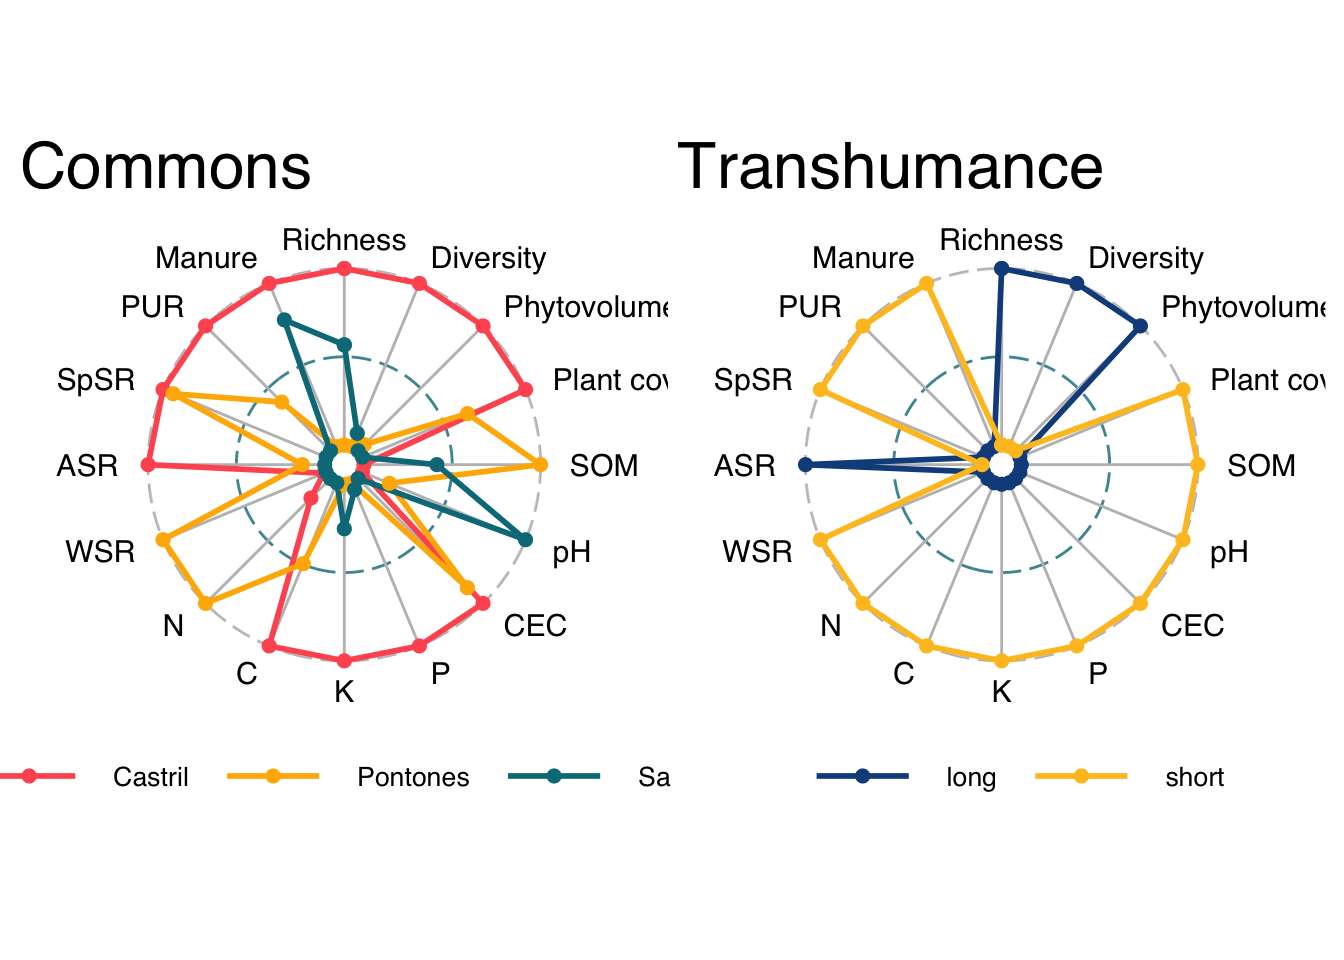
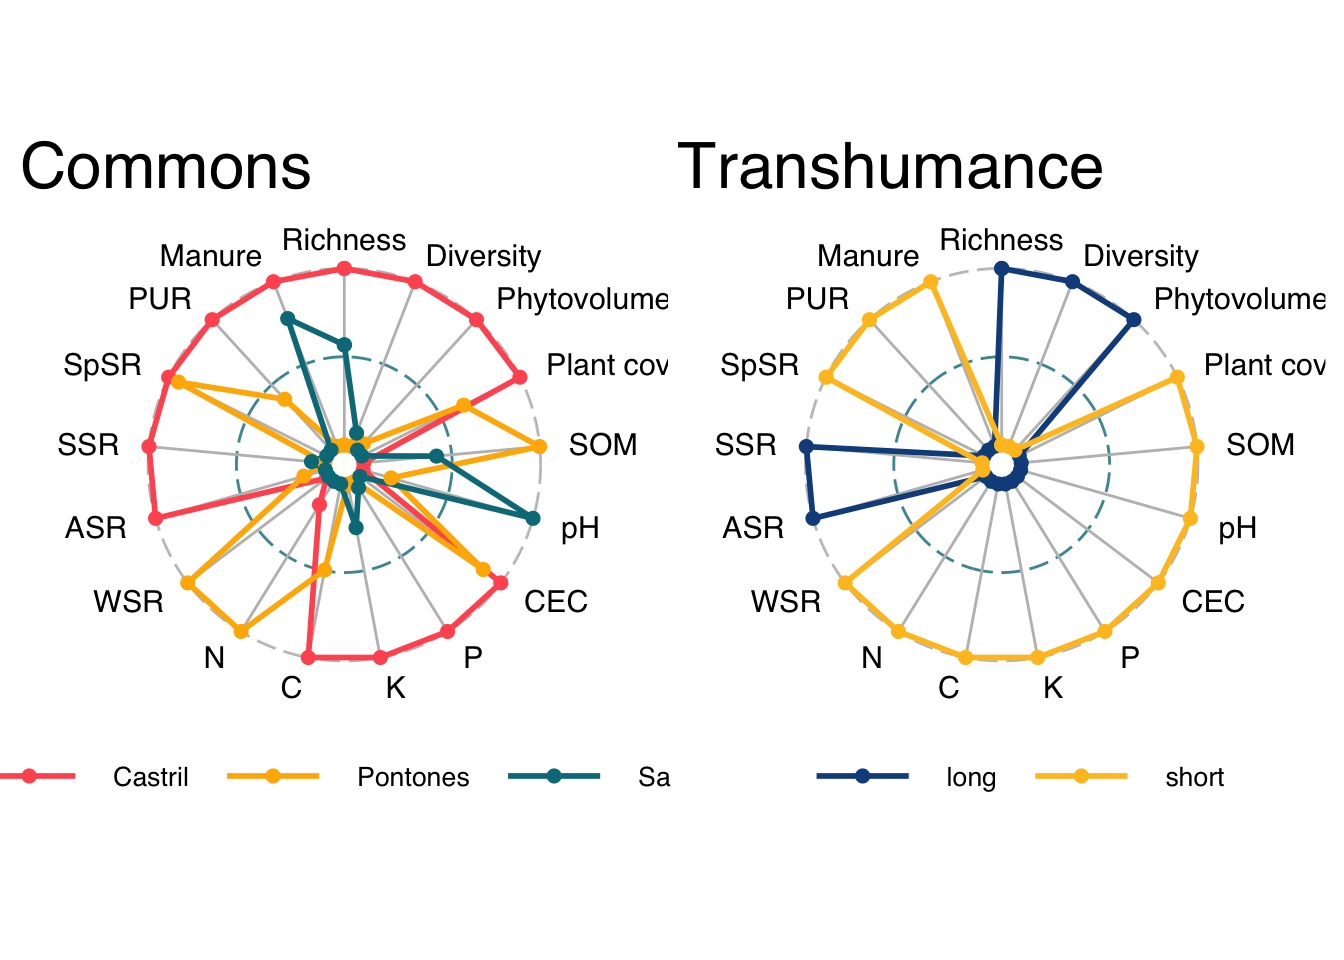
Build site.

Changed region(s): [[0.0312, 0.25, 0.5, 0.7188], [0.5312, 0.25, 1.0, 0.7188]]

diff --git a/docs/plots_commons_social.html b/docs/plots_commons_social.html
@@ -331,7 +331,7 @@ Checks <span class="glyphicon glyphicon-ok text-success" aria-hidden="true"></sp
 <div class="tab-content">
 <div id="summary" class="tab-pane fade in active">
 <p>
-<strong>Last updated:</strong> 2023-04-04
+<strong>Last updated:</strong> 2023-04-10
 </p>
 <p>
 <strong>Checks:</strong>
@@ -459,20 +459,20 @@ makes it easier to run your code on other machines.</p>
 <div class="panel panel-default">
 <div class="panel-heading">
 <p class="panel-title">
-<a data-toggle="collapse" data-parent="#workflowr-checks" href="#strongRepositoryversionstrongahrefhttpsgithubcomajpeluhumanecologytree24436310bbff6763eb1f9c738fd96c31eef33314targetblank2443631a">
+<a data-toggle="collapse" data-parent="#workflowr-checks" href="#strongRepositoryversionstrongahrefhttpsgithubcomajpeluhumanecologytreec859cd466f1bdd393df403fffaac247206c12df6targetblankc859cd4a">
 <span class="glyphicon glyphicon-ok text-success" aria-hidden="true"></span>
-<strong>Repository version:</strong> <a href="https://github.com/ajpelu/human_ecology/tree/24436310bbff6763eb1f9c738fd96c31eef33314" target="_blank">2443631</a>
+<strong>Repository version:</strong> <a href="https://github.com/ajpelu/human_ecology/tree/c859cd466f1bdd393df403fffaac247206c12df6" target="_blank">c859cd4</a>
 </a>
 </p>
 </div>
[2 lines of base64/hex data omitted]
 <div class="panel-body">
 <p>
 Great! You are using Git for version control. Tracking code development and
 connecting the code version to the results is critical for reproducibility.
 </p>
 <p>
-The results in this page were generated with repository version <a href="https://github.com/ajpelu/human_ecology/tree/24436310bbff6763eb1f9c738fd96c31eef33314" target="_blank">2443631</a>.
+The results in this page were generated with repository version <a href="https://github.com/ajpelu/human_ecology/tree/c859cd466f1bdd393df403fffaac247206c12df6" target="_blank">c859cd4</a>.
 See the <em>Past versions</em> tab to see a history of the changes made to the
 R Markdown and HTML files.
 </p>
@@ -489,19 +489,18 @@ Ignored files:
     Ignored:    .DS_Store
     Ignored:    .Rhistory
     Ignored:    .Rproj.user/
+    Ignored:    output/.DS_Store
 
 Untracked files:
-    Untracked:  output/combined_plot.svg
-    Untracked:  output/combined_plot_letters.jpg
-    Untracked:  output/combined_plot_letters.svg
-    Untracked:  output/spider_plot.svg
-    Untracked:  output/spider_plot.svg.2023_02_01_14_47_21.0.svg
-    Untracked:  output/spider_plot.svg.2023_02_07_16_19_28.0.svg
+    Untracked:  output/combined_plot_letters_v2.svg
+    Untracked:  output/spider_plot_modified/figura_5.png
+    Untracked:  output/spider_plot_modified/figura_5_v2.png
 
 Unstaged changes:
-    Modified:   code/load_pkgs.R
-    Modified:   output/combined_plot.jpg
     Modified:   output/spider_plot.jpg
+    Modified:   output/spider_plot.svg
+    Modified:   output/spider_plot_modified/arcos.svg
+    Deleted:    output/spider_plot_modified/g9275.png
 
 </code></pre>
 <p>
@@ -546,6 +545,40 @@ Message
 </tr>
 </thead>
 <tbody>
+<tr>
+<td>
+Rmd
+</td>
+<td>
+<a href="https://github.com/ajpelu/human_ecology/blob/c859cd466f1bdd393df403fffaac247206c12df6/analysis/plots_commons_social.Rmd" target="_blank">c859cd4</a>
+</td>
+<td>
+ajpelu
+</td>
+<td>
+2023-04-10
+</td>
+<td>
+wflow_publish("analysis/plots_commons_social.Rmd")
+</td>
+</tr>
+<tr>
+<td>
+html
+</td>
+<td>
+<a href="https://rawcdn.githack.com/ajpelu/human_ecology/640cbfe86897913a8b64ad4156b966fd62c34aee/docs/plots_commons_social.html" target="_blank">640cbfe</a>
+</td>
+<td>
+ajpelu
+</td>
+<td>
+2023-04-04
+</td>
+<td>
+Build site.
+</td>
+</tr>
 <tr>
 <td>
 Rmd
@@ -684,6 +717,17 @@ Date
 <tbody>
 <tr>
 <td>
+<a href="https://github.com/ajpelu/human_ecology/blob/640cbfe86897913a8b64ad4156b966fd62c34aee/docs/figure/plots_commons_social.Rmd/unnamed-chunk-2-1.png" target="_blank">640cbfe</a>
+</td>
+<td>
+ajpelu
+</td>
+<td>
+2023-04-04
+</td>
+</tr>
+<tr>
+<td>
 <a href="https://github.com/ajpelu/human_ecology/blob/bcd2feedbeb855f1d87a68821abdda504062604b/docs/figure/plots_commons_social.Rmd/unnamed-chunk-2-1.png" target="_blank">bcd2fee</a>
 </td>
 <td>
@@ -757,7 +801,7 @@ ggsave(plot = combined_plot,
   ungroup() |&gt; 
   mutate_at(vars(-transh), scales::rescale) |&gt; 
   dplyr::select(transh, Richness, Diversity, Phytovolume, `Plant cover`, SOM,
-                pH, CEC, P, K, C, N, WSR, ASR, SpSR, PUR, Manure) |&gt; 
+                pH, CEC, P, K, C, N, WSR, ASR, SSR, SpSR, PUR, Manure) |&gt; 
   ggradar(
     base.size = 3,
     group.line.width = 1, 
@@ -781,7 +825,7 @@ ggsave(plot = combined_plot,
   ungroup() |&gt; 
   mutate_at(vars(-commons), scales::rescale) |&gt; 
   dplyr::select(commons, Richness, Diversity, Phytovolume, `Plant cover`, SOM,
-                pH, CEC, P, K, C, N, WSR, ASR, SpSR, PUR, Manure) |&gt; 
+                pH, CEC, P, K, C, N, WSR, ASR, SSR, SpSR, PUR, Manure) |&gt; 
   ggradar(
     base.size = 3,
     group.line.width = 1, 
@@ -798,6 +842,43 @@ ggsave(plot = combined_plot,
 <pre class="r"><code>plot_spider &lt;- spider_commons + spider_transh
 plot_spider</code></pre>
 <p><img src="figure/plots_commons_social.Rmd/unnamed-chunk-9-1.png" width="672" style="display: block; margin: auto;" /></p>
+<p>
+<button type="button" class="btn btn-default btn-xs btn-workflowr btn-workflowr-fig" data-toggle="collapse" data-target="#fig-unnamed-chunk-9-1">
+Past versions of unnamed-chunk-9-1.png
+</button>
+</p>
+<div id="fig-unnamed-chunk-9-1" class="collapse">
+<div class="table-responsive">
+<table class="table table-condensed table-hover">
+<thead>
+<tr>
+<th>
+Version
+</th>
+<th>
+Author
+</th>
+<th>
+Date
+</th>
+</tr>
+</thead>
+<tbody>
+<tr>
+<td>
+<a href="https://github.com/ajpelu/human_ecology/blob/640cbfe86897913a8b64ad4156b966fd62c34aee/docs/figure/plots_commons_social.Rmd/unnamed-chunk-9-1.png" target="_blank">640cbfe</a>
+</td>
+<td>
+ajpelu
+</td>
+<td>
+2023-04-04
+</td>
+</tr>
+</tbody>
+</table>
+</div>
+</div>
 <pre class="r"><code>ggsave(plot = plot_spider, 
        filename = here::here(&quot;output/spider_plot.jpg&quot;), 
        height = 20, width = 27, units = &quot;cm&quot;,
@@ -848,33 +929,33 @@ other attached packages:
 [40] corrplot_0.92           correlation_0.8.2       patchwork_1.1.2        
 [43] vegan_2.6-4             lattice_0.20-45         permute_0.9-7          
 [46] fuzzySim_4.3            janitor_2.1.0           here_1.0.1             
-[49] forcats_0.5.2           stringr_1.4.1           dplyr_1.0.10           
+[49] forcats_0.5.2           stringr_1.4.1           dplyr_1.1.1            
 [52] purrr_0.3.5             readr_2.1.3             tidyr_1.2.1            
-[55] tibble_3.1.8            ggplot2_3.4.0           tidyverse_1.3.2        
+[55] tibble_3.2.1            ggplot2_3.4.0           tidyverse_1.3.2        
 [58] workflowr_1.7.0        
 
 loaded via a namespace (and not attached):
-  [1] utf8_1.2.2          tidyselect_1.2.0    htmlwidgets_1.5.4  
+  [1] utf8_1.2.2          tidyselect_1.2.0    htmlwidgets_1.6.2  
   [4] grid_4.2.1          munsell_0.5.0       ragg_1.2.3         
   [7] codetools_0.2-18    future_1.29.0       withr_2.5.0        
  [10] colorspace_2.0-3    highr_0.9           rstudioapi_0.14    
  [13] stats4_4.2.1        listenv_0.8.0       labeling_0.4.2     
  [16] git2r_0.30.1        farver_2.1.1        bit64_4.0.5        
  [19] DiceDesign_1.9      datawizard_0.6.2    rprojroot_2.0.3    
- [22] coda_0.19-4         parallelly_1.32.1   vctrs_0.5.1        
+ [22] coda_0.19-4         parallelly_1.32.1   vctrs_0.6.1        
  [25] generics_0.1.3      ipred_0.9-13        xfun_0.35          
  [28] R6_2.5.1            lhs_1.1.5           cachem_1.0.6       
  [31] assertthat_0.2.1    vroom_1.6.0         promises_1.2.0.1   
  [34] nnet_7.3-17         googlesheets4_1.0.1 gtable_0.3.1       
  [37] globals_0.16.2      processx_3.7.0      timeDate_4021.106  
- [40] rlang_1.0.6         systemfonts_1.0.4   splines_4.2.1      
+ [40] rlang_1.1.0         systemfonts_1.0.4   splines_4.2.1      
  [43] gargle_1.2.1        yaml_2.3.7          abind_1.4-5        
  [46] modelr_0.1.9        backports_1.4.1     httpuv_1.6.8       
  [49] tools_4.2.1         lava_1.6.10         bookdown_0.30      
  [52] ellipsis_0.3.2      jquerylib_0.1.4     plyr_1.8.7         
  [55] Rcpp_1.0.9          ps_1.7.1            rpart_4.1.16       
  [58] haven_2.5.1         ggrepel_0.9.1       cluster_2.1.3      
- [61] fs_1.5.2            furrr_0.3.1.9000    magrittr_2.0.3     
+ [61] fs_1.6.1            furrr_0.3.1.9000    magrittr_2.0.3     
  [64] reprex_2.0.2        GPfit_1.0-8         googledrive_2.0.0  
  [67] mvtnorm_1.1-3       whisker_0.4         hms_1.1.2          
  [70] evaluate_0.18       xtable_1.8-4        readxl_1.4.2       
@@ -894,7 +975,7 @@ loaded via a namespace (and not attached):
 [112] fansi_1.0.3         pillar_1.8.1        fastmap_1.1.0      
 [115] httr_1.4.4          survival_3.3-1      bayestestR_0.13.0  
 [118] iterators_1.0.14    bit_4.0.4           class_7.3-20       
-[121] stringi_1.7.8       sass_0.4.4          textshaping_0.3.6  
+[121] stringi_1.7.8       sass_0.4.5          textshaping_0.3.6  
 [124] future.apply_1.9.1 </code></pre>
 </div>
 </div>
